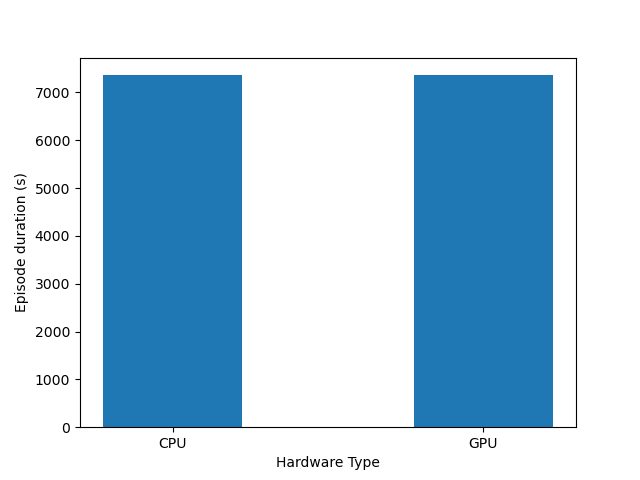
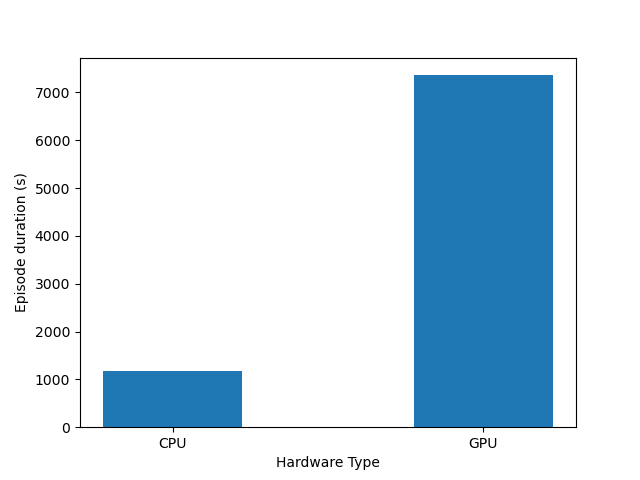
Update charts with testing results

Changed region(s): [[0.1562, 0.1562, 0.375, 0.7812]]

diff --git a/scripts/training_charts.py b/scripts/training_charts.py
@@ -5,7 +5,7 @@ import matplotlib.pyplot as plt
 import datetime
 
 FOLDER_PATH:str = "results/train/presentation_results"
-CPU_PATH:PurePosixPath = PurePosixPath(FOLDER_PATH, "")
+CPU_PATH:PurePosixPath = PurePosixPath(FOLDER_PATH, "20240810-1153_tdg00_sp_cpu500_matches.json")
 GPU_PATH:PurePosixPath = PurePosixPath(FOLDER_PATH, "20240810-1001_tdg00_sp_gpu100_matches.json")
 
 episode_dict = dict()
@@ -32,8 +32,8 @@ for path in RESULTS_PATHS:
 
 
 # Plot Episode duration chart.
-plt.plot(range(1,len(episode_dict[CPU_PATH])+1,1), episode_dict[CPU_PATH], label="CPU")
 plt.plot(range(1,len(episode_dict[GPU_PATH])+1,1), episode_dict[GPU_PATH], label="GPU")
+plt.plot(range(1,len(episode_dict[CPU_PATH])+1,1), episode_dict[CPU_PATH], label="CPU")
 plt.legend()
 plt.xlabel("Episode number")
 plt.ylabel("Episode duration (s)")
